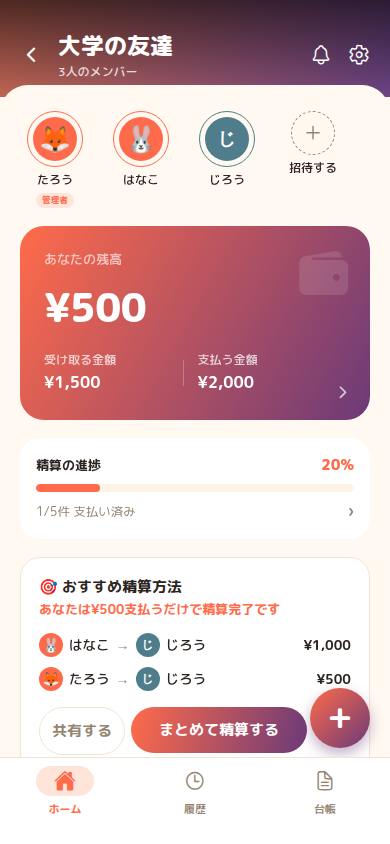
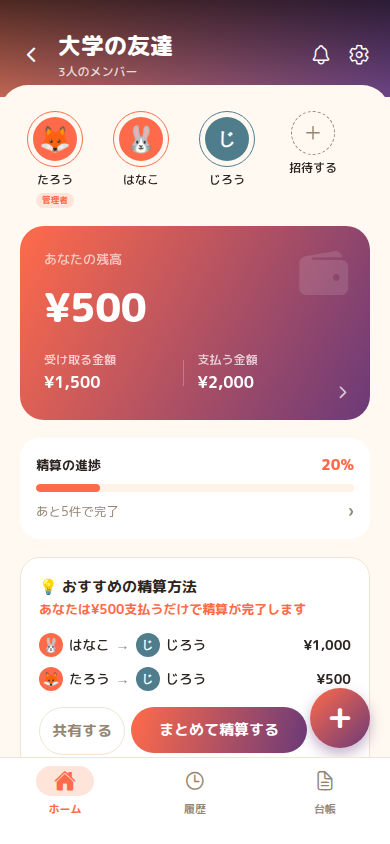
kashikari: 精算進捗・おすすめ精算方法の文言を仕様書通りに修正
添付の「完成版リファレンス画像」+詳細仕様書(チェックリスト形式)
での指摘への対応。スキーマ変更なし。

- 「精算の進捗」下の文言を「1/5件 支払い済み」から「あと5件で完了」
  に戻した(remaining件数をそのまま見せる形式。i18nキーを
  progressFraction→progressRemainingに置き換え)
- 「おすすめの精算方法」のタイトル絵文字を🎯→💡、文言を
  「おすすめ精算方法」→「おすすめの精算方法」に、説明文を
  「¥500支払うだけで精算完了です」→「¥500支払うだけで精算が
  完了します」に、指定の文言へ揃えた

ヘッダー(左上の＜・タイトル位置)とメンバー一覧・残高カードは、
前回までの修正で既に仕様書の記述と一致していたため変更していない。

「たろう→じろう ¥1,000」への変更は保留: 仕様書が指定する残高カード
の数値(受け取る¥1,500・支払う¥2,000・残高¥500)と、おすすめ精算
方法の「たろう→じろう ¥1,000」は、実際の精算ロジック上両立しない
(たろうの正味の負債は1,500-2,000=500円で固定され、これが変わらない
限りおすすめ精算方法での支払い合計も500円のまま)。固定値で無理やり
表示を書き換えるのではなく計算ロジックを確認してほしい、という指示
だったため、数値は変更せずこの矛盾をREADME・報告メッセージで
説明する形にした。

tsc --noEmit / expo export --platform web(通常+デモモード)とも
問題なし。

Claude-Session: https://claude.ai/code/session_016w6H5fipiVvbtfX7sgu87W

diff --git a/personal-side-projects/kashikari/mobile/src/i18n/strings.ts b/personal-side-projects/kashikari/mobile/src/i18n/strings.ts
@@ -49,18 +49,16 @@ export const ja = {
     payingSection: '支払う',
     otherSection: 'グループ内の他のやりとり',
     progressLabel: '精算の進捗',
-    // 「20%だけでは何の20%か分かりにくい」という指摘を受け、割合の
-    // 内訳(支払い済み/残り件数)を添えるようにした。「完了」ではなく
-    // 「支払い済み」としているのは、この段階はまだ受け取る側の確認待ち
-    // (settle_status: 'paid')であり、双方確認が済んだ「完了」
-    // (confirmed)とは区別しているため。
-    progressFraction: (paid: number, remaining: number) => `${paid}/${remaining}件 支払い済み`,
+    // 「『あとN件で完了』にしてほしい」という指摘を受け、残っている件数
+    // (remaining、まだ双方確認=confirmedが済んでいない件数)をそのまま
+    // 見せる表示に戻した。
+    progressRemaining: (remaining: number) => `あと${remaining}件で完了`,
     unpaidTitle: '未払い',
     unpaidEmpty: '未払いの相手はいません',
-    autoSettleTitle: '🎯 おすすめ精算方法',
+    autoSettleTitle: '💡 おすすめの精算方法',
     autoSettleSubtitleGeneric: 'この方法で精算すると、全員の残高が0円になります',
-    autoSettleSubtitleMinePay: (amount: string) => `あなたは${amount}支払うだけで精算完了です`,
-    autoSettleSubtitleMineReceive: (amount: string) => `あなたは${amount}受け取るだけで精算完了です`,
+    autoSettleSubtitleMinePay: (amount: string) => `あなたは${amount}支払うだけで精算が完了します`,
+    autoSettleSubtitleMineReceive: (amount: string) => `あなたは${amount}受け取るだけで精算が完了します`,
     autoSettleButton: 'まとめて精算する',
     autoSettleShareButton: '共有する',
     hideSettled: '精算済みを隠す',
@@ -305,10 +303,10 @@ export const en: Strings = {
     payingSection: 'Paying',
     otherSection: "Other members' balances",
     progressLabel: 'Settlement progress',
-    progressFraction: (paid: number, remaining: number) => `${paid}/${remaining} paid`,
+    progressRemaining: (remaining: number) => `${remaining} left to settle`,
     unpaidTitle: 'Unpaid',
     unpaidEmpty: 'Nobody owes you right now',
-    autoSettleTitle: '🎯 Recommended way to settle',
+    autoSettleTitle: '💡 Recommended way to settle',
     autoSettleSubtitleGeneric: "This plan brings everyone's balance to zero",
     autoSettleSubtitleMinePay: (amount: string) => `You're all set once you pay ${amount}`,
     autoSettleSubtitleMineReceive: (amount: string) => `You're all set once you receive ${amount}`,

diff --git a/personal-side-projects/kashikari/mobile/src/components/SettlementProgress.tsx b/personal-side-projects/kashikari/mobile/src/components/SettlementProgress.tsx
@@ -18,7 +18,9 @@ type Props = {
 // 支払い済みで確認待ちのみ)。
 //
 // 「20%だけでは何の20%か分かりにくい」という指摘を受け、割合の下に
-// 「1/5件 支払い済み」のような内訳を添えた。また、0%(未着手)・
+// 内訳を添えている。一時「1/5件 支払い済み」という表示にしていたが、
+// 「『あとN件で完了』にしてほしい」という指摘を受けて、残っている
+// 件数(remaining)をそのまま見せる元の形式に戻した。0%(未着手)・
 // 100%(全件支払い済み、あとは確認待ちのみ)の状態が一目でわかるよう、
 // バーの色とラベルを状態に応じて変える。
 export default function SettlementProgress({ remaining, paid, onPress }: Props) {
@@ -38,7 +40,7 @@ export default function SettlementProgress({ remaining, paid, onPress }: Props) 
       </View>
       <View style={styles.footerRow}>
         <Text style={[styles.fraction, isDone && styles.fractionDone, !isStarted && styles.fractionMuted]}>
-          {t.group.progressFraction(paid, remaining)}
+          {t.group.progressRemaining(remaining)}
         </Text>
         {onPress && <Text style={styles.chevron}>›</Text>}
       </View>
